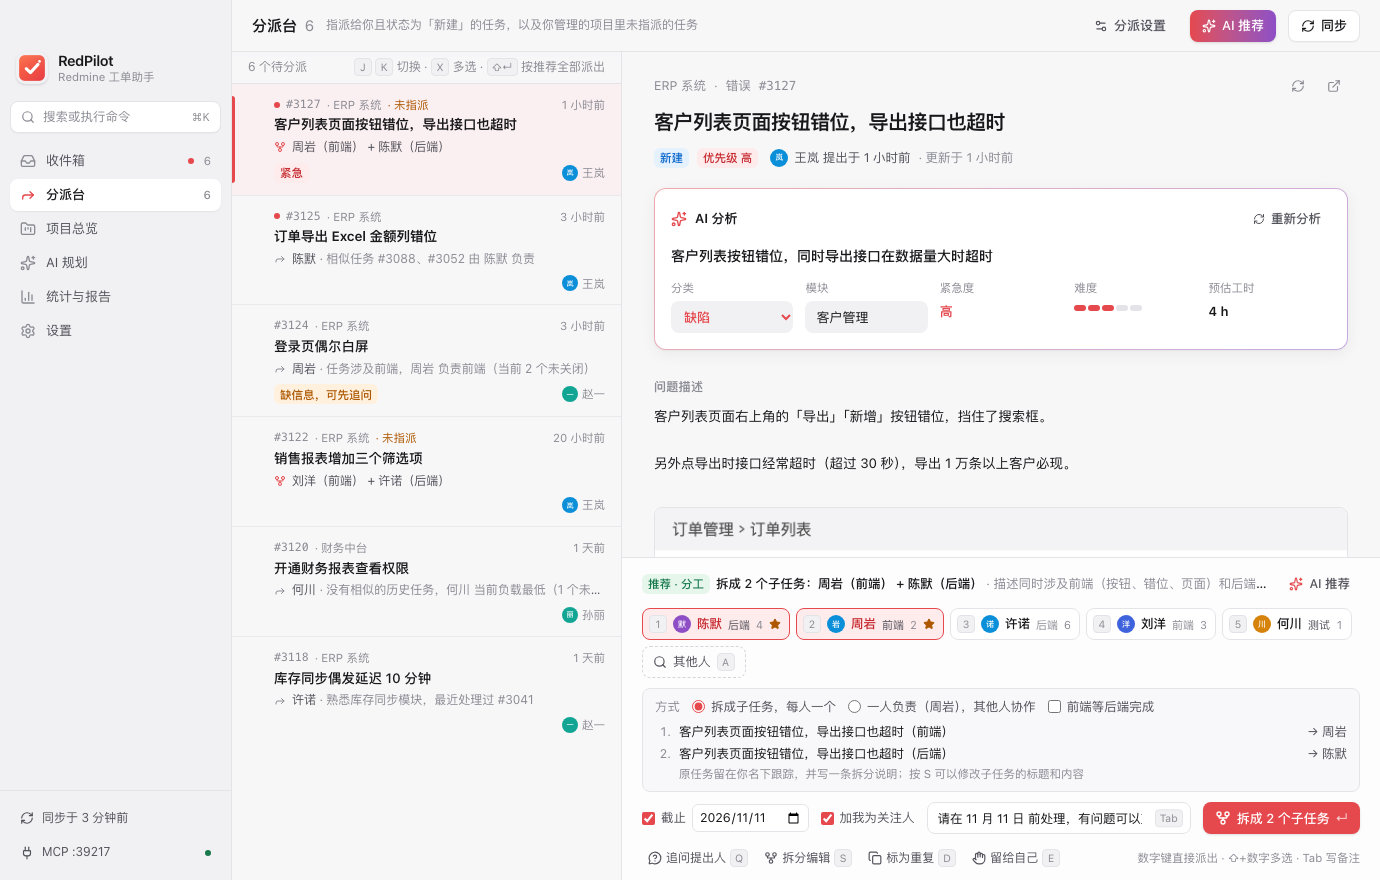
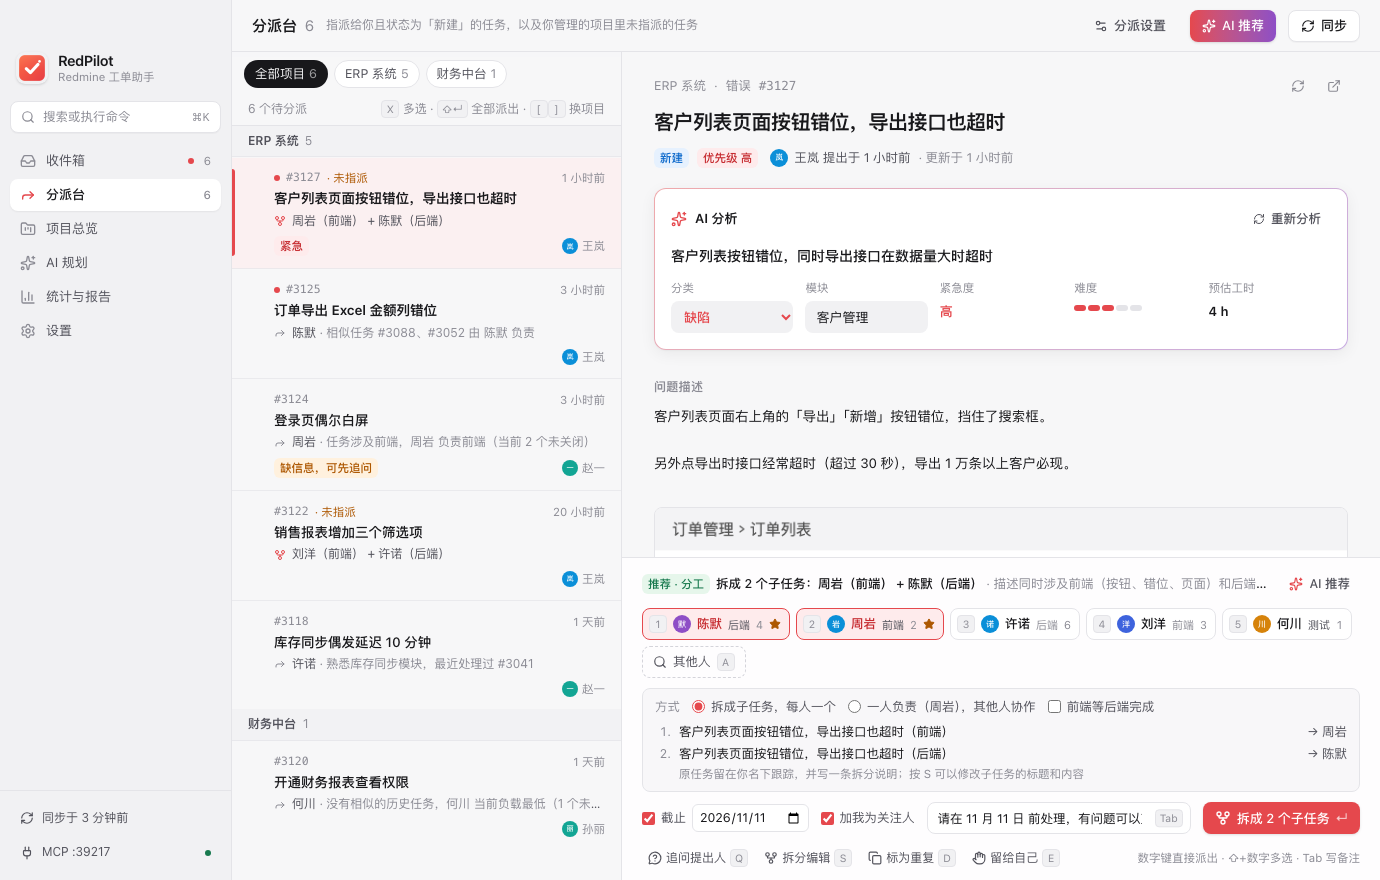
分派台按项目分组和筛选：可以只分派某一个项目的问题
- 全部项目时按项目分组（任务多的项目在前）；点项目标签或分组标题只看这个项目，[ ] 切换项目
- 选定项目后，⇧↵ 全部派出、多选批量派单和 AI 推荐都只作用于这个项目
- 记住上次选择的项目；项目派完时提示其他项目还有多少待分派
- MCP 的 get_dispatch_queue 支持 project_id

diff --git a/src/pages/Dispatch.tsx b/src/pages/Dispatch.tsx
@@ -1,6 +1,6 @@
-import { useCallback, useEffect, useMemo, useRef, useState } from "react";
+import { useCallback, useEffect, useMemo, useRef, useState, type ReactNode } from "react";
 import clsx from "clsx";
-import { Check, Copy, Forward, GitFork, PlugZap, RefreshCw, Settings2, Sparkles, X } from "lucide-react";
+import { Check, ChevronRight, Copy, Forward, GitFork, PlugZap, RefreshCw, Settings2, Sparkles, X } from "lucide-react";
 import {
   api,
   errorText,
@@ -21,6 +21,25 @@ import { FollowUpDialog } from "../components/ResolveDialog";
 import { SplitDialog } from "../components/SplitDialog";
 import { DispatchPanel, outcomeToast, recommendedRequest } from "../components/DispatchPanel";
 
+const PROJECT_KEY = "rp.dispatch.project";
+
+/** 记住的项目筛选（null 表示全部项目） */
+function storedProject(): number | null {
+  try {
+    const v = Number(localStorage.getItem(PROJECT_KEY));
+    return Number.isInteger(v) && v > 0 ? v : null;
+  } catch {
+    return null;
+  }
+}
+
+interface ProjectGroup {
+  id: number | null;
+  /** 按项目分组时的项目名，不分组时为空 */
+  title: string | null;
+  items: DispatchItem[];
+}
+
 /** 分派台：开发经理把收到的问题快速派给团队成员 */
 export function DispatchPage() {
   const { rev, config, secrets, setPage, dispatch: go, syncing, sync } = useApp();
@@ -39,7 +58,19 @@ export function DispatchPage() {
   const [custom, setCustom] = useState<{ id: number; parts: SplitPart[] } | null>(null);
   const [dupFor, setDupFor] = useState<number | null>(null);
   const [aiBusy, setAiBusy] = useState<"all" | number | null>(null);
+  const [project, setProjectState] = useState<number | null>(storedProject);
   const loadSeq = useRef(0);
+
+  const setProject = useCallback((id: number | null) => {
+    setProjectState(id);
+    setChecked(new Set());
+    try {
+      if (id === null) localStorage.removeItem(PROJECT_KEY);
+      else localStorage.setItem(PROJECT_KEY, String(id));
+    } catch {
+      // 无法写入时只影响记住筛选
+    }
+  }, []);
 
   const configured = !!config?.redmine.baseUrl && secrets.redmine;
 
@@ -64,7 +95,26 @@ export function DispatchPage() {
     if (configured) void load();
   }, [load, rev, configured]);
 
-  const items = useMemo(() => (queue?.items ?? []).filter((i) => !hidden.has(i.issue.id)), [queue, hidden]);
+  const all = useMemo(() => (queue?.items ?? []).filter((i) => !hidden.has(i.issue.id)), [queue, hidden]);
+  // 各项目的待分派数，多的在前
+  const projectCounts = useMemo(() => {
+    const m = new Map<number, { id: number; name: string; count: number }>();
+    for (const i of all) {
+      const p = m.get(i.issue.projectId) ?? { id: i.issue.projectId, name: i.issue.projectName, count: 0 };
+      p.count += 1;
+      m.set(p.id, p);
+    }
+    return [...m.values()].sort((a, b) => b.count - a.count || a.name.localeCompare(b.name, "zh-CN"));
+  }, [all]);
+  // 选了项目只看这个项目；全部项目时按项目分组（只有一个项目时不分组）
+  const groups: ProjectGroup[] = useMemo(() => {
+    if (project !== null) return [{ id: project, title: null, items: all.filter((i) => i.issue.projectId === project) }];
+    if (projectCounts.length <= 1) return [{ id: null, title: null, items: all }];
+    return projectCounts.map((p) => ({ id: p.id, title: p.name, items: all.filter((i) => i.issue.projectId === p.id) }));
+  }, [all, project, projectCounts]);
+  // 列表中实际显示的顺序，切换、批量派单和 AI 推荐都只针对这些任务
+  const items = useMemo(() => groups.flatMap((g) => g.items), [groups]);
+  const projectName = project === null ? null : (queue?.projects.find((p) => p.id === project)?.name ?? projectCounts.find((p) => p.id === project)?.name ?? `项目 #${project}`);
   const projectOf = (pid: number) => queue?.projects.find((p) => p.id === pid);
   const current = items.find((i) => i.issue.id === selected) ?? null;
 
@@ -218,6 +268,12 @@ export function DispatchPage() {
           else n.add(current.issue.id);
           return n;
         });
+      } else if ((e.key === "[" || e.key === "]") && projectCounts.length > 0) {
+        // 在“全部项目”和各项目之间切换
+        e.preventDefault();
+        const order: (number | null)[] = [null, ...projectCounts.map((p) => p.id)];
+        const at = Math.max(0, order.indexOf(project));
+        setProject(order[(at + (e.key === "]" ? 1 : -1) + order.length) % order.length]);
       } else if (e.key === "Escape") {
         setChecked(new Set());
       } else if (e.key === "Enter" && e.shiftKey) {
@@ -259,7 +315,7 @@ export function DispatchPage() {
     <div className="flex h-full min-w-0 flex-col">
       <header data-tauri-drag-region className={clsx("flex shrink-0 items-center gap-3 border-b border-line px-5", isMac ? "h-[52px]" : "h-12")}>
         <h2 data-tauri-drag-region className="text-[15px] font-semibold">
-          分派台 <span className="ml-1 font-normal text-ink-3 tabular-nums">{queue ? items.length : ""}</span>
+          分派台 <span className="ml-1 font-normal text-ink-3 tabular-nums">{queue ? all.length : ""}</span>
         </h2>
         <span data-tauri-drag-region className="truncate text-[12px] text-ink-3" title={scopeText}>
           {scopeText}
@@ -294,7 +350,7 @@ export function DispatchPage() {
             </div>
           ) : loadError && !queue ? (
             <Empty icon={<X className="size-6" />} title="无法读取分派台" desc={loadError} action={<Button onClick={() => void load()}>重试</Button>} />
-          ) : items.length === 0 ? (
+          ) : all.length === 0 ? (
             <Empty
               icon={<Check className="size-6" />}
               title="没有待分派的任务"
@@ -303,31 +359,85 @@ export function DispatchPage() {
             />
           ) : (
             <>
-              <div className="sticky top-0 z-[2] flex items-center gap-2 border-b border-line bg-canvas/95 px-4 py-1.5 text-[12px] text-ink-3 backdrop-blur">
-                <span className="tabular-nums">{items.length} 个待分派</span>
-                <span className="ml-auto">
-                  <Kbd>J</Kbd> <Kbd>K</Kbd> 切换 · <Kbd>X</Kbd> 多选 · <Kbd>⇧↵</Kbd> 按推荐全部派出
-                </span>
+              <div className="sticky top-0 z-[3] border-b border-line bg-canvas/95 backdrop-blur">
+                {(projectCounts.length > 1 || project !== null) && (
+                  <div className="flex items-center gap-1.5 overflow-x-auto px-3 pt-2 pb-1.5">
+                    <ProjectChip active={project === null} onClick={() => setProject(null)}>
+                      全部项目 <span className="text-ink-3">{all.length}</span>
+                    </ProjectChip>
+                    {projectCounts.map((p) => (
+                      <ProjectChip key={p.id} active={project === p.id} onClick={() => setProject(project === p.id ? null : p.id)}>
+                        <span className="max-w-[140px] truncate">{p.name}</span> <span className="text-ink-3">{p.count}</span>
+                      </ProjectChip>
+                    ))}
+                    {project !== null && !projectCounts.some((p) => p.id === project) && (
+                      <ProjectChip active onClick={() => setProject(null)}>
+                        <span className="max-w-[140px] truncate">{projectName}</span> <span className="text-ink-3">0</span>
+                      </ProjectChip>
+                    )}
+                  </div>
+                )}
+                <div className="flex items-center gap-2 px-4 py-1.5 text-[12px] whitespace-nowrap text-ink-3">
+                  <span className="min-w-0 truncate tabular-nums">
+                    {project !== null ? `${projectName} · ` : ""}
+                    {items.length} 个待分派
+                  </span>
+                  <span className="ml-auto" title="J / K 上下切换">
+                    <Kbd>X</Kbd> 多选 · <Kbd>⇧↵</Kbd> 全部派出
+                    {projectCounts.length > 1 && (
+                      <>
+                        {" "}· <Kbd>[</Kbd>
+                        <Kbd>]</Kbd> 换项目
+                      </>
+                    )}
+                  </span>
+                </div>
               </div>
-              <ul className="divide-y divide-line/70">
-                {items.map((i) => (
-                  <QueueRow
-                    key={i.issue.id}
-                    item={i}
-                    active={i.issue.id === selected}
-                    checked={checked.has(i.issue.id)}
-                    onClick={() => setSelected(i.issue.id)}
-                    onCheck={() =>
-                      setChecked((s) => {
-                        const n = new Set(s);
-                        if (n.has(i.issue.id)) n.delete(i.issue.id);
-                        else n.add(i.issue.id);
-                        return n;
-                      })
-                    }
-                  />
-                ))}
-              </ul>
+              {items.length === 0 ? (
+                <Empty
+                  icon={<Check className="size-6" />}
+                  title={`「${projectName}」已全部分派完`}
+                  desc={`其他项目还有 ${all.length} 个待分派`}
+                  action={<Button onClick={() => setProject(null)}>查看全部项目</Button>}
+                />
+              ) : (
+                groups.map((g) => (
+                  <section key={g.id ?? "all"}>
+                    {g.title && (
+                      <button
+                        onClick={() => g.id !== null && setProject(g.id)}
+                        title="只看这个项目"
+                        className="group/h sticky top-[73px] z-[2] flex w-full items-center gap-1.5 border-b border-line/70 bg-sunken/95 px-4 py-1.5 text-left text-[12px] font-semibold text-ink-2 backdrop-blur hover:text-ink"
+                      >
+                        <span className="truncate">{g.title}</span>
+                        <span className="font-normal text-ink-3 tabular-nums">{g.items.length}</span>
+                        <span className="ml-auto flex items-center gap-0.5 font-normal text-ink-3 opacity-0 group-hover/h:opacity-100">
+                          只看这个项目 <ChevronRight className="size-3" />
+                        </span>
+                      </button>
+                    )}
+                    <ul className="divide-y divide-line/70">
+                      {g.items.map((i) => (
+                        <QueueRow
+                          key={i.issue.id}
+                          item={i}
+                          active={i.issue.id === selected}
+                          checked={checked.has(i.issue.id)}
+                          onClick={() => setSelected(i.issue.id)}
+                          onCheck={() =>
+                            setChecked((s) => {
+                              const n = new Set(s);
+                              if (n.has(i.issue.id)) n.delete(i.issue.id);
+                              else n.add(i.issue.id);
+                              return n;
+                            })
+                          }
+                        />
+                      ))}
+                    </ul>
+                  </section>
+                ))
+              )}
             </>
           )}
 
@@ -398,7 +508,7 @@ export function DispatchPage() {
               }
             />
           ) : (
-            queue && <Empty icon={<Forward className="size-6" />} title="选择一个任务开始分派" desc="数字键直接派给对应成员，⇧+数字可以同时选前端和后端" />
+            queue && all.length > 0 && <Empty icon={<Forward className="size-6" />} title="选择一个任务开始分派" desc="数字键直接派给对应成员，⇧+数字可以同时选前端和后端" />
           )}
         </div>
       </div>
@@ -440,6 +550,20 @@ export function DispatchPage() {
   );
 }
 
+function ProjectChip({ active, onClick, children }: { active: boolean; onClick: () => void; children: ReactNode }) {
+  return (
+    <button
+      onClick={onClick}
+      className={clsx(
+        "inline-flex h-7 shrink-0 items-center gap-1 rounded-full border px-2.5 text-[12.5px] transition-colors",
+        active ? "border-ink/80 bg-ink text-canvas [&_.text-ink-3]:text-canvas/60" : "border-line bg-panel text-ink-2 hover:bg-hover",
+      )}
+    >
+      {children}
+    </button>
+  );
+}
+
 function QueueRow({ item, active, checked, onClick, onCheck }: { item: DispatchItem; active: boolean; checked: boolean; onClick: () => void; onCheck: () => void }) {
   const i = item.issue;
   const a = i.analysis;
@@ -471,7 +595,6 @@ function QueueRow({ item, active, checked, onClick, onCheck }: { item: DispatchI
         <div className="flex items-center gap-1.5 text-[11.5px] text-ink-3">
           {i.unread && <span className="size-1.5 rounded-full bg-accent" />}
           <span className="font-mono">#{i.id}</span>
-          <span className="truncate">· {i.projectName}</span>
           {!i.assignedToId && <span className="shrink-0 text-warn">· 未指派</span>}
           <span className="ml-auto shrink-0" title={`提出于 ${dateTime(i.createdOn)}`}>
             {relativeTime(i.createdOn)}

diff --git a/crates/redpilot-core/src/mcp.rs b/crates/redpilot-core/src/mcp.rs
@@ -282,6 +282,8 @@ pub struct BulkAssignItem {
 #[derive(Debug, Deserialize, JsonSchema, Default)]
 #[serde(default)]
 pub struct DispatchQueueParams {
+    /// 只看某个项目的待分派任务（项目 ID，可用 list_my_projects 查询）
+    pub project_id: Option<u64>,
     /// 先让 RedPilot 配置的 AI 结合成员分工、正在负责的任务和负载给出建议（默认 false：用本地算法）
     pub use_ai: bool,
 }
@@ -635,14 +637,21 @@ impl RedPilotMcp {
         to_json(&self.svc.bulk_assign(&items, p.notes).await)
     }
 
-    #[tool(description = "分派台（开发经理视角）：等待我分派的任务（指派给我且处于“新建”一类状态的，以及我管理的项目里未指派的），每个任务给出推荐的负责人和理由；需要多人分工（如前端+后端）时给出 multi 方案。同时返回各项目可选成员的分工方向和负载。只给建议，不修改 Redmine。")]
+    #[tool(description = "分派台（开发经理视角）：等待我分派的任务（指派给我且处于“新建”一类状态的，以及我管理的项目里未指派的），可用 project_id 只看某个项目；每个任务给出推荐的负责人和理由；需要多人分工（如前端+后端）时给出 multi 方案。同时返回各项目可选成员的分工方向和负载。只给建议，不修改 Redmine。")]
     async fn get_dispatch_queue(&self, Parameters(p): Parameters<DispatchQueueParams>) -> ToolResult {
         self.prepare();
-        let mut q = self.svc.dispatch_queue().await.map_err(err)?;
+        let only = |mut q: DispatchQueue| {
+            if let Some(pid) = p.project_id {
+                q.items.retain(|i| i.issue.project_id == pid);
+                q.projects.retain(|x| x.id == pid);
+            }
+            q
+        };
+        let mut q = only(self.svc.dispatch_queue().await.map_err(err)?);
         if p.use_ai && !q.items.is_empty() {
             let ids: Vec<u64> = q.items.iter().map(|i| i.issue.id).collect();
             self.svc.ai_dispatch(&ids).await.map_err(err)?;
-            q = self.svc.dispatch_queue().await.map_err(err)?;
+            q = only(self.svc.dispatch_queue().await.map_err(err)?);
         }
         to_json(&dispatch_brief(&q, &self.base_url()))
     }

diff --git a/docs/产品功能清单.md b/docs/产品功能清单.md
@@ -53,6 +53,7 @@
 
 ## 五点七、分派台（开发经理）
 - ✅ 待分派队列：指派给我且处于“新建”一类状态的任务（状态可在设置中指定），以及我管理的项目里未指派的任务；已拆分（有子任务）、留给自己的不再出现
+- ✅ 按项目分组与筛选：全部项目时按项目分组；可以只看某个项目（项目标签或 [ ] 切换），批量派单、⇧↵ 和 AI 推荐只作用于当前项目；记住上次的选择；MCP 的 get_dispatch_queue 支持 project_id
 - ✅ 推荐人选：类别默认负责人 > 相似任务的负责人 > 分工方向 > 负载；可让 AI 结合成员分工、正在负责的任务和负载推荐（新任务自动分析时一并给出），AI 给出的无效成员回退到本地推荐
 - ✅ 多人分工判断：分条事项分属不同方向，或标题和描述同时明显涉及前端和后端时，推荐每个方向一人；成员分工未知时按历史分工拆
 - ✅ 键盘派单：↵ 按推荐派出、1-9 直接派给常用成员、⇧+数字多选、A 搜索成员、Tab 写备注；派完自动跳到下一个，5 秒内可撤销
